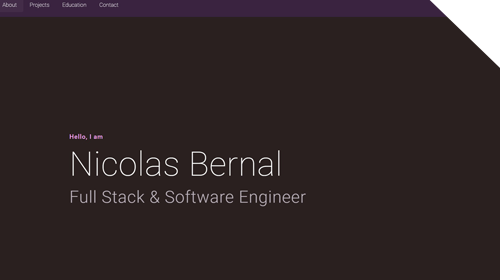
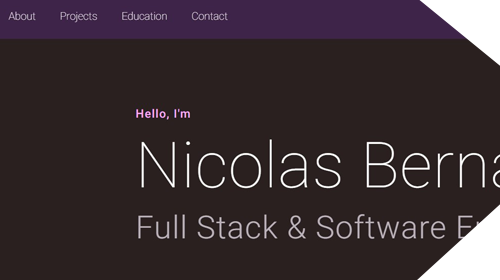
fixed some css

diff --git a/src/app/projects/projects.component.scss b/src/app/projects/projects.component.scss
@@ -71,9 +71,8 @@
         border-radius: 10px;
         display: flex;
         justify-content: flex-end;
+        position: relative;
         float: right;
-        position: absolute;
-        right: 170px;
     }
 
     &-left &-image-container {
@@ -113,6 +112,7 @@
         background-color: $background_op;
         border-radius: 5px 20px 20px 5px;
         color: $muted_text;
+        position: absolute;
     }
 
     &-tech,
@@ -204,7 +204,7 @@
         &-left,
         &-right {
             padding: 0px;
-            margin: 10px 0 0 0;
+            margin: 65px 0 0 0;
             height: 360px;
             transition: all 300ms ease;
 
@@ -242,6 +242,7 @@
             overflow: hidden;
             position: absolute;
             right: 40px;
+            margin-top: -55px;
         }
 
         &-left &-image-container {
@@ -254,6 +255,7 @@
             float: right;
             overflow: hidden;
             position: absolute;
+            margin-top: -55px;
         }
 
 
@@ -262,6 +264,10 @@
             z-index: 0 !important;
             transition: all 300ms ease;
             filter: grayscale(40%) blur(1px) brightness(70%) opacity(60%)
+        }
+
+        &-description {
+            font-size: 0.8em;
         }
 
         &-left &-description {

diff --git a/src/app/splash/splash.component.html b/src/app/splash/splash.component.html
@@ -1,5 +1,5 @@
 <div class="splash-container">
-    <h4 class="splash-h4">Hello, I am</h4>
+    <h4 class="splash-h4">Hello, I'm</h4>
     <h1 class="splash-h1">Nicolas Bernal</h1>
     <h2 class="splash-h2">Full Stack & Software Engineer</h2>
 </div>
